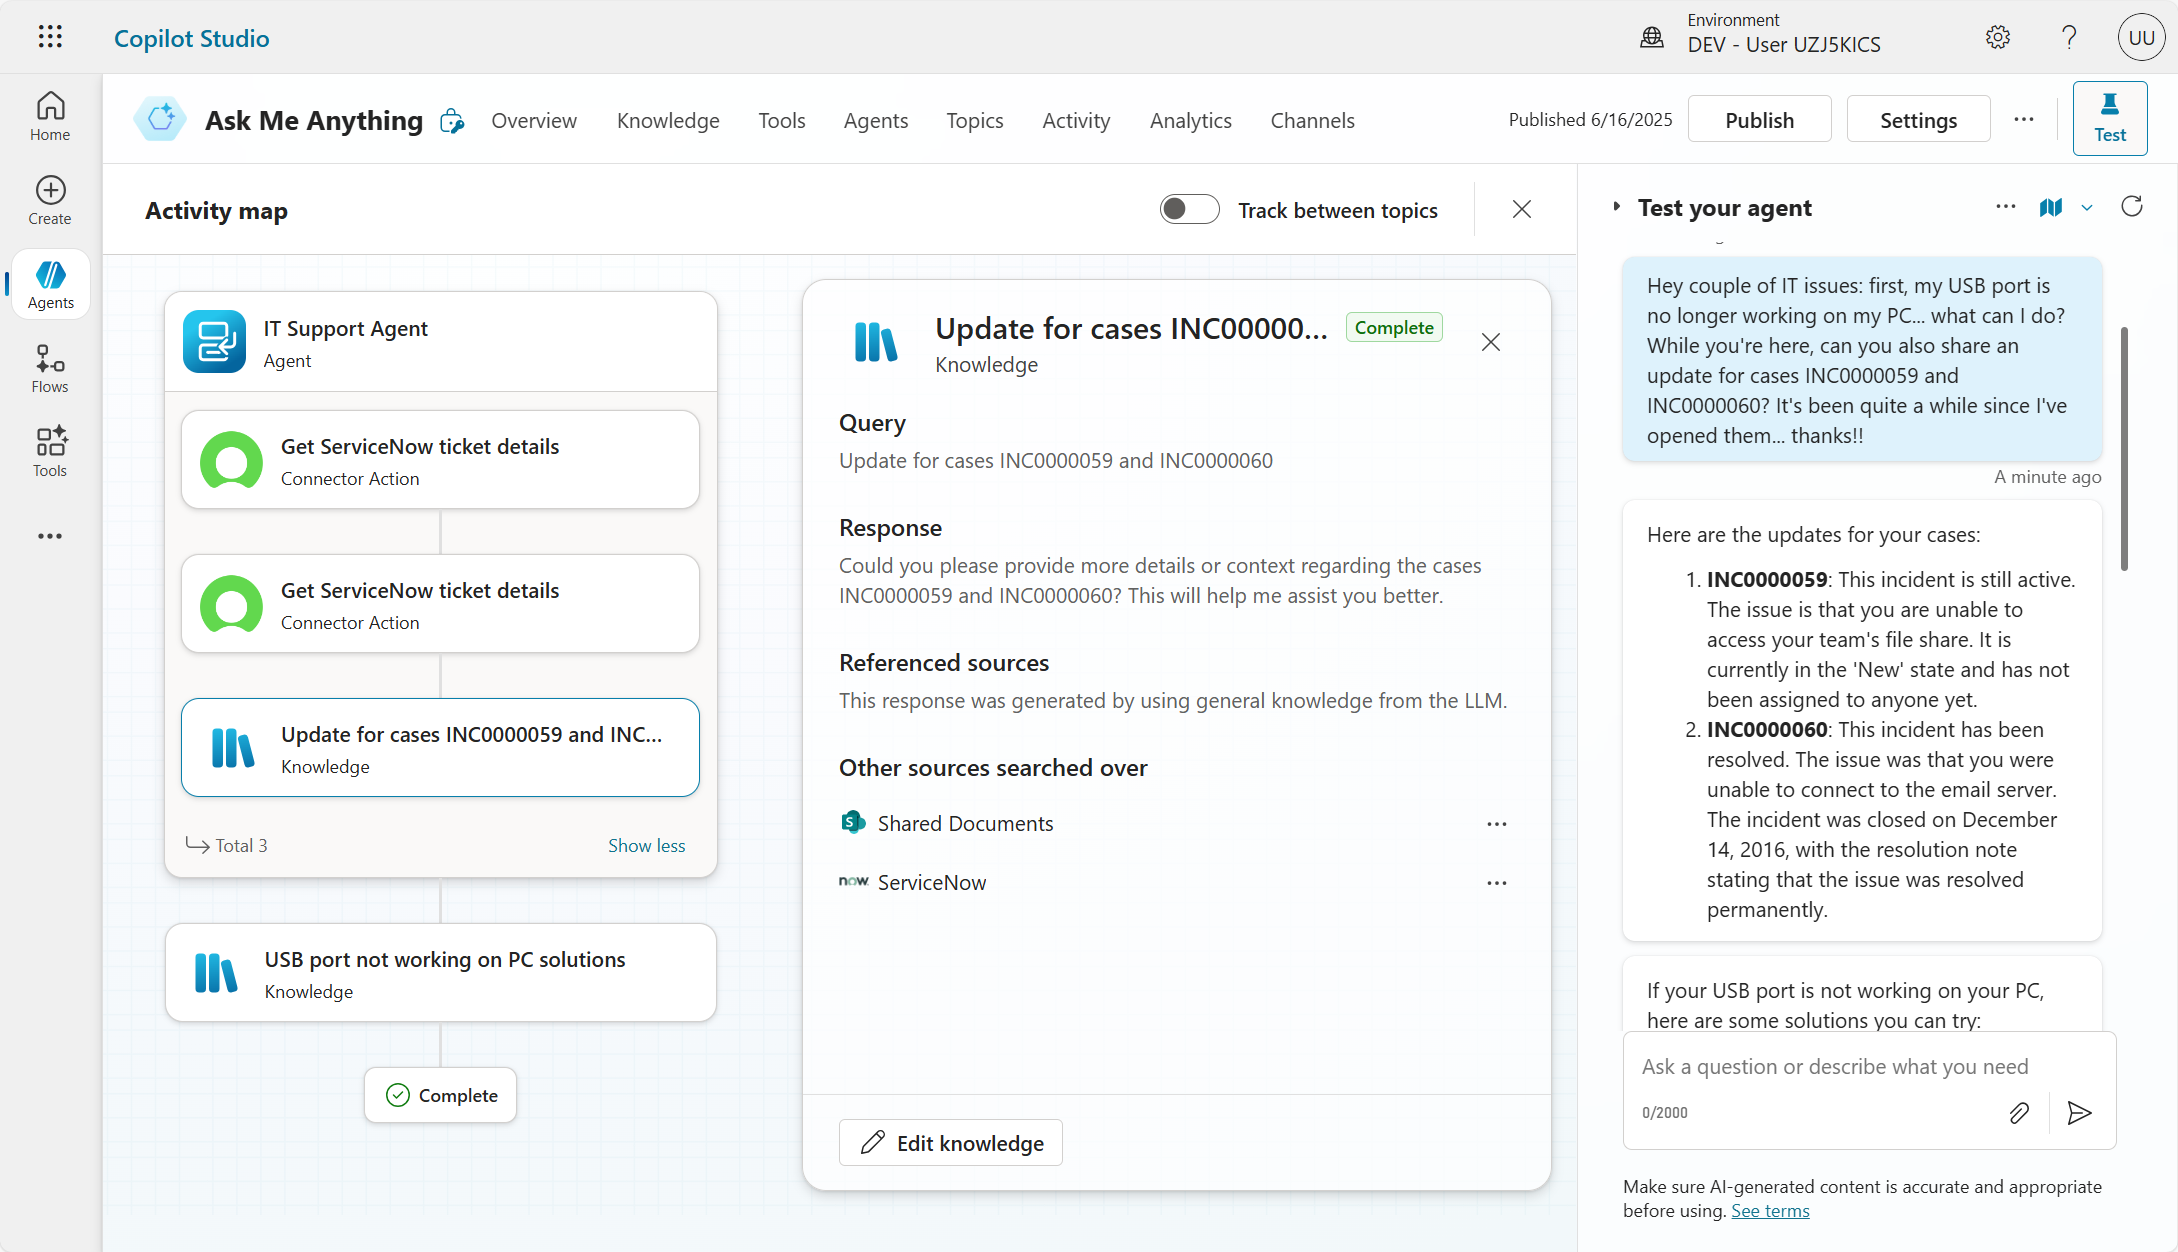
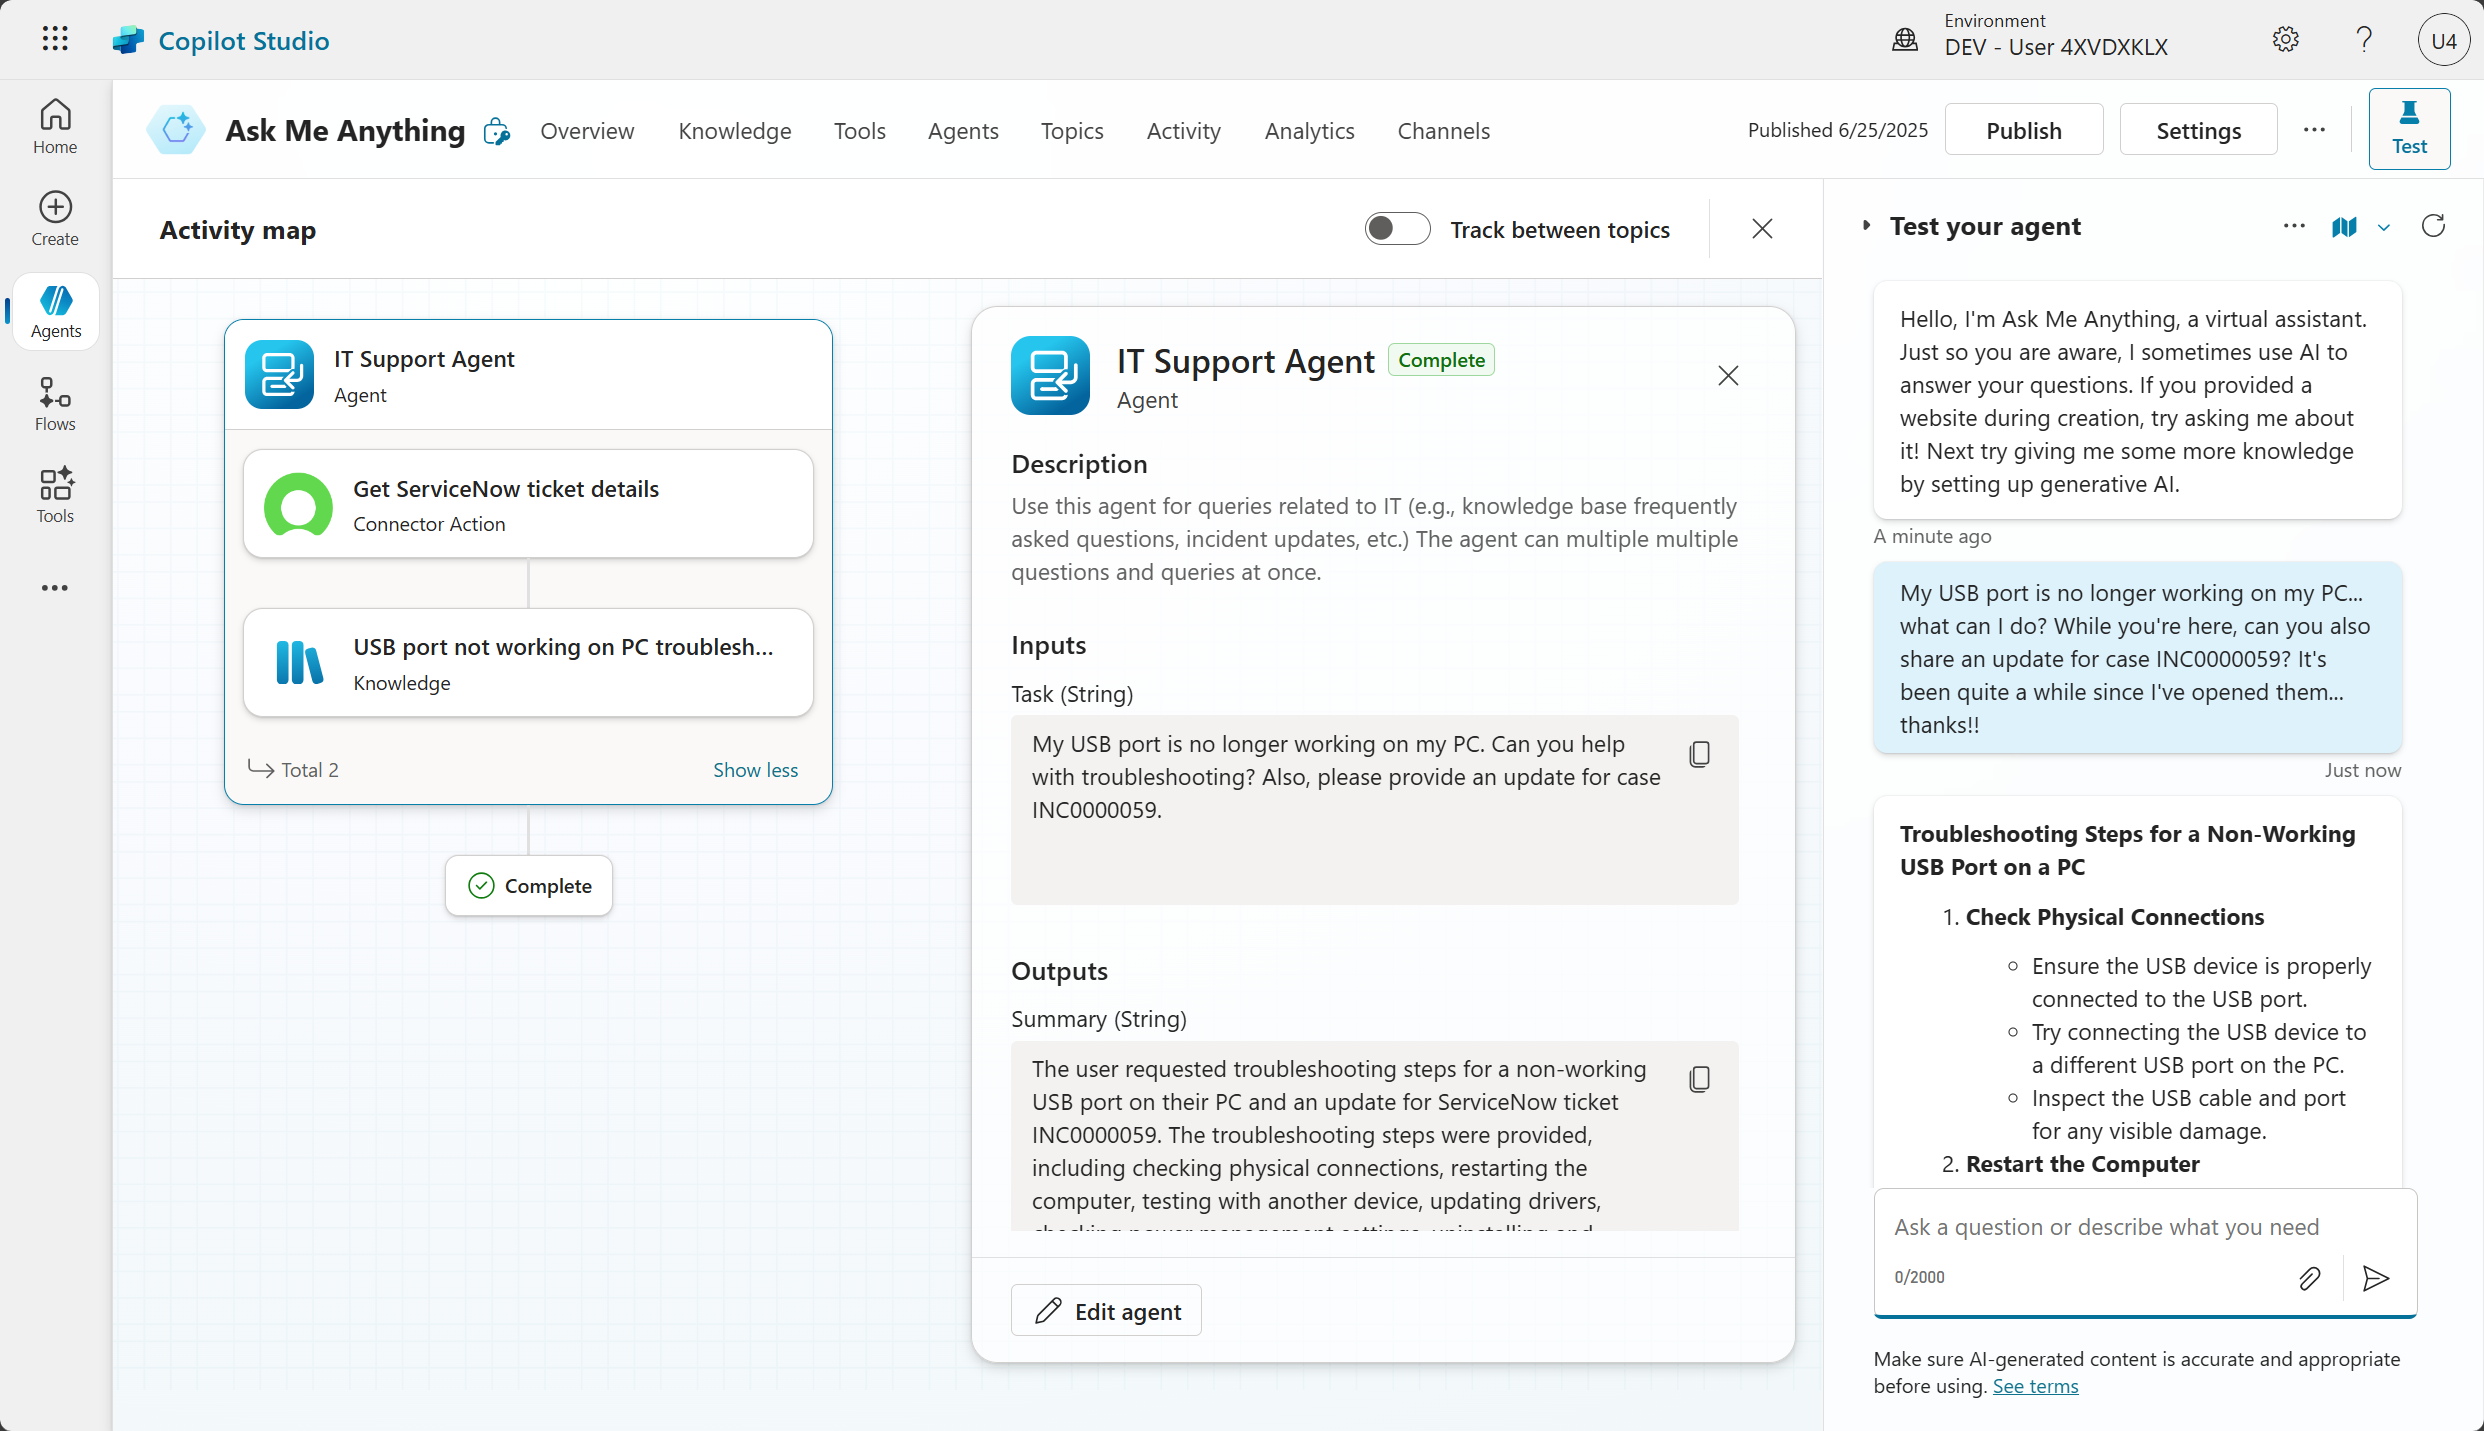
updated ama agent

diff --git a/labs/ask-me-anything/README.md b/labs/ask-me-anything/README.md
@@ -264,11 +264,17 @@ Make the agent available in Microsoft 365 Copilot for your users.
 
 4. Select **Add channel** (at the bottom right corner)
 
-5. Select **See agent in Microsoft 365** 
+5. **Close** the channel pane
 
-  ![alt text](images/m365-copilot-channel.png)
+6. **Publish** the agent again.
 
-6. In the **M365 Copilot** experience, the agent description will pop up. Select **Add**
+7. Select **Teams and Microsoft 365 Copilot** channel tile
+
+8. Select **See agent in Microsoft 365** 
+
+   ![alt text](images/m365-copilot-channel.png)
+
+9. In the **Microsoft 365 Copilot** experience, the agent description will pop up. Select **Add**
 
 > [!TIP]
 > - You may need to give it a few tries/minutes the first time you deploy to Microsoft 365 Copilot so it deploys correctly. 
@@ -276,7 +282,7 @@ Make the agent available in Microsoft 365 Copilot for your users.
 >   - Choose **See agents in Teams** instead. If you can
 >   - In the new window, if prompted *This site is trying to open Microsoft Teams*, select **Cancel**, and the select **use the web app instead**
 
-7. Test the agent with the benefits prompt
+10. Test the agent with the benefits prompt
 
 > [!TIP]
 > If deploying to Teams,  prompts won't be available, so paste the below question:
@@ -284,7 +290,6 @@ Make the agent available in Microsoft 365 Copilot for your users.
 > ``` 
 > What's the Northwind Health Plus Benefits plan?
 > ```
-
 
 ---
 
@@ -347,7 +352,7 @@ Let's start by asking for the user country at the beginning of the conversation.
 
 7. In the **Get user** node, select `...` and **Properties** 
 
-8. Toggle the **End user authentication** to **Copilot author authentication**.
+8. Toggle the **End user authentication** to **Agent author authentication**.
 
 9. In the **Inputs** tab, for **User Id or Principal Name**, select `...`, go the the **System** tab, and select **User.Id**.
 
@@ -436,6 +441,9 @@ Include the user country () in knowledge search queries (e.g., "<question> in <c
 
 31. We need to set the variable value in-between the parenthesis. **Type** `/` and select **Power Fx**.
 
+> [!TIP]
+> Note: the UX may differ. In that case, use the **{x}** dropdown to select **Global.GetUser.officeLocation**, and **Save** your instructions.
+
   ![alt text](images/instructions-formula.png)
 
 31. **Type** `Global.GetUser.officeLocation` and select **Insert**
@@ -492,29 +500,41 @@ This use case demonstrates **agent scoping** principles:
 
 2. Go to the **Agents** tab, and **+ Add an agent**
 
-3. Update its **name** to `IT Support Agent`
-
-4. Update its **description** to `Use this agent for any ask for action or knowledge related to IT.`
+3. Update 
+    - Its **Name** to: `IT Support Agent`
+    - Its **Description** to:
+      ```
+      Use this agent for queries related to IT (e.g., knowledge base frequently asked questions, incident updates, etc.) 
+      The agent can multiple multiple questions and queries at once.
+      ```
+    - Its **Instructions** to:
+      ```
+      Use knowledge for problem/how-to/questions.
+      Use the Get ServiceNow ticket details tool to get the status of incidents.
+      ```
 
 #### Add knowledge to the child agent
 
-5. Select **+ Add** in the **Knowledge** section of the child agent
+4. Select **+ Add** in the **Knowledge** section of the child agent
 
-6. Select **ServiceNow**
+5. Select **ServiceNow**
 
-7. Choose the **ServiceNow** connection in **Created by my admin**
+6. Choose the **ServiceNow** connection in **Created by my admin**
 
-8. Select **Add**
+7. Select **Add**
 
 #### Add ServiceNow ticket details
 
-9. Go to your Ask Me Anything agent
+1. Go to your Ask Me Anything agent
 
-10. Go to the **Tools** tab, and **+ Add a tool**
+2. Go to the **Tools** tab, and **+ Add a tool**
 
-11. Search for  `ServiceNow List records`
+3. Search for  `ServiceNow List records`
 
-4. Select **Add and configure**
+4. Select **Add to Agent**, then **Save** your child agent, and scroll down to the **Tools** section and select the **List records** tool you just added.
+
+> [!TIP]
+> In case of issues, refresh the page.
 
 5. **Rename** to `Get ServiceNow ticket details`
 
@@ -552,13 +572,13 @@ This use case demonstrates **agent scoping** principles:
 28. **Test** your agent:
 
     ```
-    Hey couple of IT issues: first, my USB port is no longer working on my PC... what can I do? While you're here, can you also share an update for cases INC0000059 and INC0000060? It's been quite a while since I've opened them... thanks!!
+    My USB port is no longer working on my PC... what can I do? While you're here, can you also share an update for case INC0000059? It's been quite a while since I've opened them... thanks!!
     ```
 
 > [!TIP]
 > Notice how the agent automatically:
 > - Uses the appropriate ServiceNow tool based on the query type
-> - Handles multiple tickets in a single request
+> - Handles multiple tickets in a single request (e.g., if you ask for both cases INC0000059 and INC0000060)
 > - Creates user-friendly responses with proper formatting
 > - Combines ServiceNow data with other knowledge sources when needed
 
